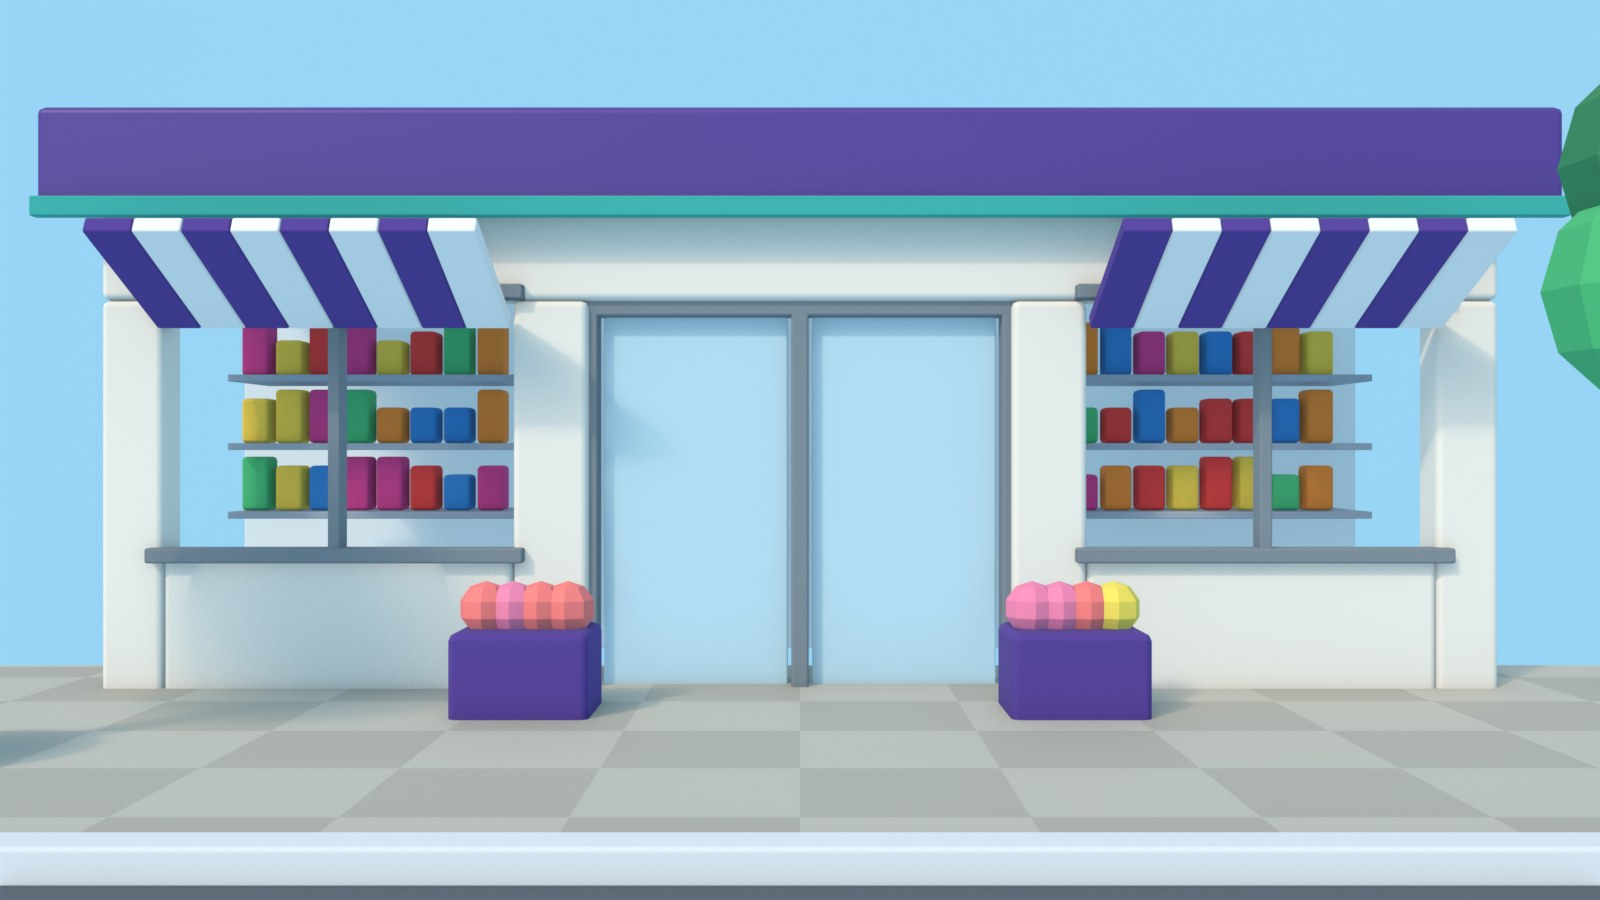
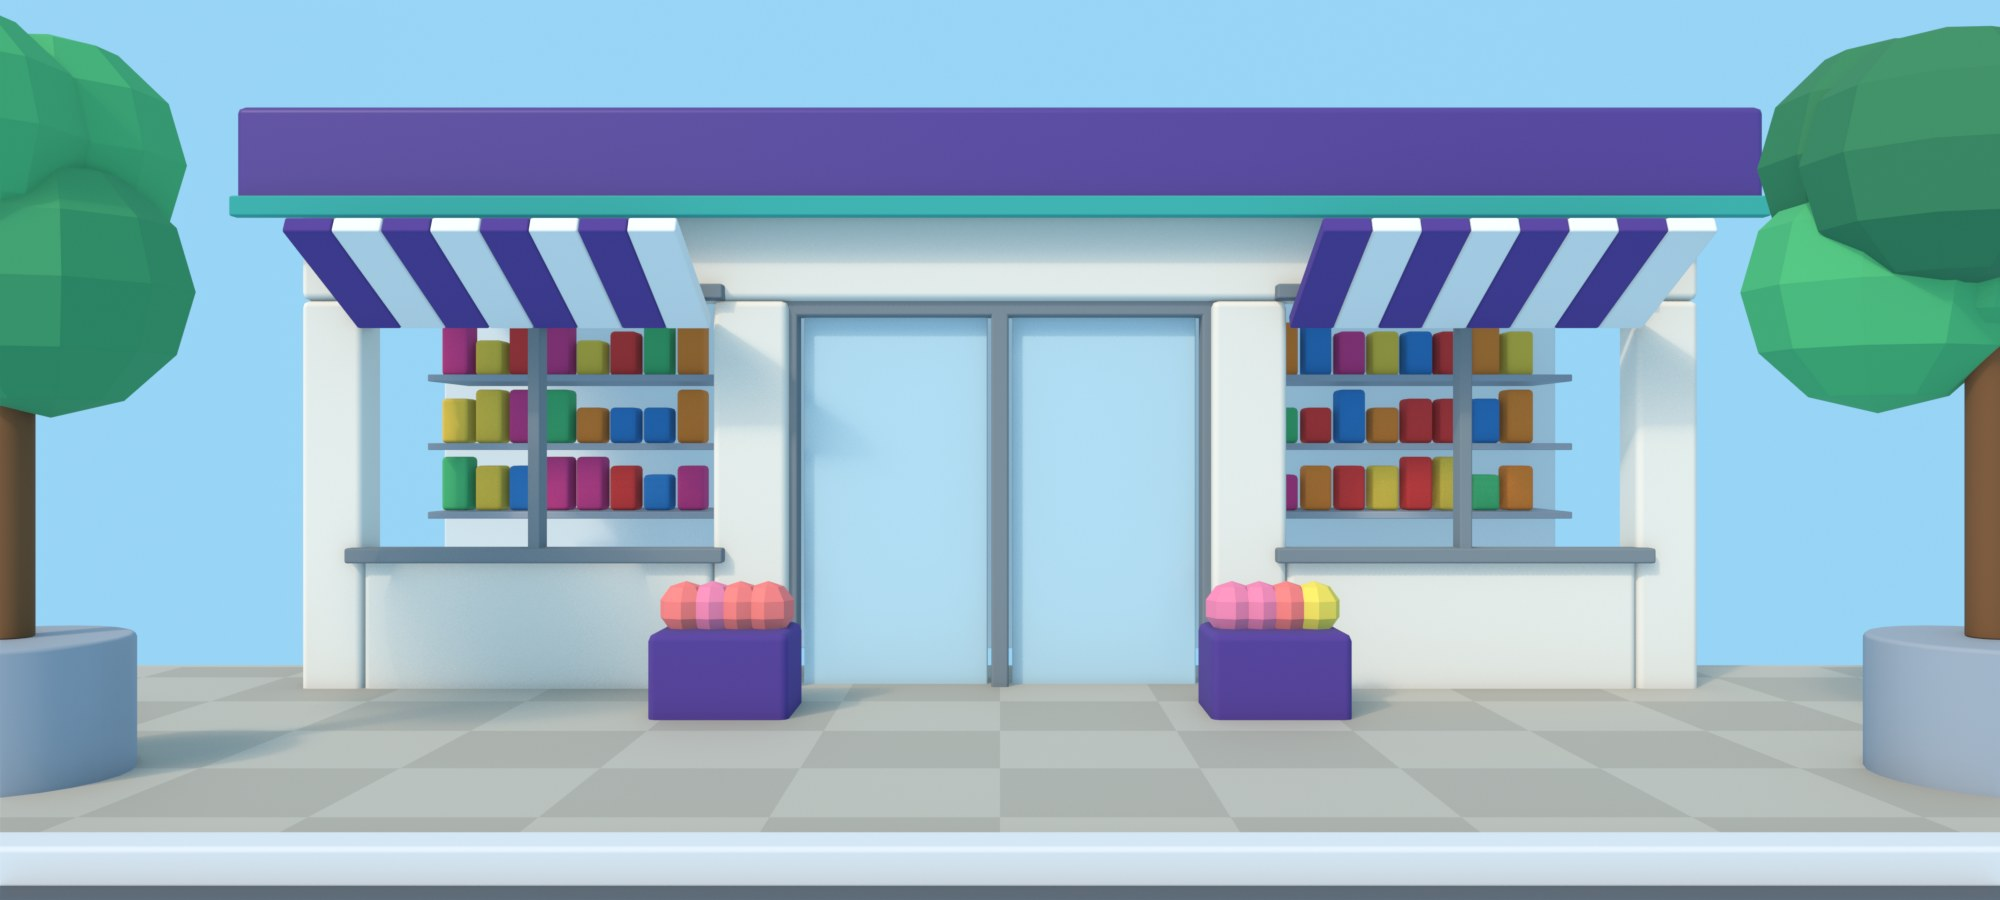
Pantallas alargadas: el juego se ensancha hasta 20:9 sin franjas
Nivel 2 del plan móvil. Escala EXPAND hasta 1600x720: el contenido sigue
en 1280x720 y el plugin Centrado centra la cámara de cada escena; marcador
y reloj van a los bordes reales; capas oscuras y barras cubren todo el
ancho. Fondos y mapa renderizados a 20:9 (2000x900) con la franja central
idéntica: escenarios.json y mapa.json no cambian. En 4:3 queda como antes.

diff --git a/src/lib/fondos.js b/src/lib/fondos.js
@@ -1,12 +1,12 @@
 import Phaser from 'phaser';
-import { ANCHO, ALTO, COLOR, estiloTexto } from './estilo.js';
+import { ANCHO, ALTO, ANCHO_MAX, COLOR, X_IZQ, estiloTexto } from './estilo.js';
 import { sombra } from './sombras.js';
 
 const PRODUCTOS_DECO = ['atun', 'leche', 'aceite', 'bebida', 'tomate', 'ketchup', 'miel', 'chocolate', 'jugo', 'mani', 'pan', 'queso'];
 
 function piso(g, y, colorA, colorB, tam = 80) {
   for (let fila = 0; y + fila * tam < ALTO; fila++) {
-    for (let col = 0; col * tam < ANCHO; col++) {
+    for (let col = Math.floor(X_IZQ / tam); col * tam < X_IZQ + ANCHO_MAX; col++) {
       g.fillStyle((fila + col) % 2 ? colorA : colorB, 1);
       g.fillRect(col * tam, y + fila * tam, tam, tam);
     }
@@ -16,34 +16,45 @@ function piso(g, y, colorA, colorB, tam = 80) {
 // Sala de ventas: pared clara, piso de baldosas, letrero del supermercado.
 export function fondoSala(scene, { pisoY = 560, letrero = true } = {}) {
   const g = scene.add.graphics();
-  g.fillStyle(0xeef3f6, 1).fillRect(0, 0, ANCHO, pisoY);
-  g.fillStyle(0xd8e2e8, 1).fillRect(0, pisoY - 14, ANCHO, 14);
+  g.fillStyle(0xeef3f6, 1).fillRect(X_IZQ, 0, ANCHO_MAX, pisoY);
+  g.fillStyle(0xd8e2e8, 1).fillRect(X_IZQ, pisoY - 14, ANCHO_MAX, 14);
   piso(g, pisoY, 0xe7e1d6, 0xf4efe6);
-  if (letrero) {
-    g.fillStyle(COLOR.marca, 1).fillRect(0, 0, ANCHO, 56);
-    g.fillStyle(COLOR.marcaAcento, 1).fillRect(0, 56, ANCHO, 6);
-    scene.add.text(ANCHO / 2, 28, 'SUPERMERCADO EL BARRIO', estiloTexto(28, '#ffffff')).setOrigin(0.5);
-  }
+  if (letrero) barraTitulo(scene, 'SUPERMERCADO EL BARRIO', COLOR.marca);
   return g;
 }
 
 // Bodega: muro gris, piso de cemento con línea de seguridad amarilla.
 export function fondoBodega(scene) {
   const g = scene.add.graphics();
-  g.fillStyle(0x8a96a3, 1).fillRect(0, 0, ANCHO, ALTO);
+  g.fillStyle(0x8a96a3, 1).fillRect(X_IZQ, 0, ANCHO_MAX, ALTO);
   for (let y = 0; y < 560; y += 40) {
-    g.lineStyle(2, 0x7a8693, 1).lineBetween(0, y, ANCHO, y);
+    g.lineStyle(2, 0x7a8693, 1).lineBetween(X_IZQ, y, X_IZQ + ANCHO_MAX, y);
   }
-  g.fillStyle(0x6b737c, 1).fillRect(0, 560, ANCHO, ALTO - 560);
-  g.fillStyle(COLOR.amarillo, 1).fillRect(0, 566, ANCHO, 8);
-  g.fillStyle(0x3d4852, 1).fillRect(0, 0, ANCHO, 56);
-  scene.add.text(ANCHO / 2, 28, 'BODEGA', estiloTexto(28, '#ffffff')).setOrigin(0.5);
+  g.fillStyle(0x6b737c, 1).fillRect(X_IZQ, 560, ANCHO_MAX, ALTO - 560);
+  g.fillStyle(COLOR.amarillo, 1).fillRect(X_IZQ, 566, ANCHO_MAX, 8);
+  barraTitulo(scene, 'BODEGA', 0x3d4852);
+  return g;
+}
+
+// Imagen de fondo de alto completo, centrada (los renders son más anchos que 16:9: lo que sobra se ve
+// en pantallas alargadas).
+export function fondoImagen(scene, clave) {
+  const img = scene.add.image(ANCHO / 2, 0, clave).setOrigin(0.5, 0);
+  return img.setScale(ALTO / img.height);
+}
+
+// Barra del título arriba, a todo el ancho.
+function barraTitulo(scene, titulo, color) {
+  const g = scene.add.graphics();
+  g.fillStyle(color, 1).fillRect(X_IZQ, 0, ANCHO_MAX, 56);
+  g.fillStyle(COLOR.marcaAcento, 1).fillRect(X_IZQ, 56, ANCHO_MAX, 6);
+  scene.add.text(ANCHO / 2, 28, titulo, estiloTexto(28, '#ffffff')).setOrigin(0.5);
   return g;
 }
 
 // Exterior / entrada del supermercado (render de Blender: tools/gen_escenarios.py) con el nombre en el letrero.
 export function fondoEntrada(scene) {
-  scene.add.image(0, 0, 'esc_fachada').setOrigin(0).setDisplaySize(ANCHO, ALTO);
+  fondoImagen(scene, 'esc_fachada');
   scene.add.text(ANCHO / 2, 130, 'SUPERMERCADO EL BARRIO', estiloTexto(48, '#ffffff', { stroke: '#2d2060', strokeThickness: 6 })).setOrigin(0.5);
 }
 
@@ -81,11 +92,7 @@ export function carro(scene, x, y, ancho = 300) {
 
 // Fondo renderizado en Blender (tools/gen_escenarios.py) con la barra superior del juego.
 export function fondoRender(scene, clave, titulo, colorBarra = COLOR.marca) {
-  scene.add.image(0, 0, clave).setOrigin(0).setDisplaySize(ANCHO, ALTO);
-  scene.add.image(0, 0, 'vineta').setOrigin(0).setDisplaySize(ANCHO, ALTO);
-  const g = scene.add.graphics();
-  g.fillStyle(colorBarra, 1).fillRect(0, 0, ANCHO, 56);
-  g.fillStyle(COLOR.marcaAcento, 1).fillRect(0, 56, ANCHO, 6);
-  scene.add.text(ANCHO / 2, 28, titulo, estiloTexto(28, '#ffffff')).setOrigin(0.5);
-  return g;
+  const fondo = fondoImagen(scene, clave);
+  scene.add.image(ANCHO / 2, 0, 'vineta').setOrigin(0.5, 0).setDisplaySize(fondo.displayWidth, ALTO);
+  return barraTitulo(scene, titulo, colorBarra);
 }

diff --git a/src/scenes/Mapa.js b/src/scenes/Mapa.js
@@ -1,5 +1,5 @@
 import Phaser from 'phaser';
-import { ALTO, ANCHO, COLOR, estiloTexto } from '../lib/estilo.js';
+import { ALTO, ANCHO, ANCHO_MAX, COLOR, X_IZQ, estiloTexto } from '../lib/estilo.js';
 import { Indicador, marca, panel, producto, sacudir } from '../lib/ui.js';
 import { caminar, crearPersonaje, enPiso, mirarHacia } from '../lib/personaje.js';
 import { estado, sumarError } from '../lib/estado.js';
@@ -44,11 +44,14 @@ export default class Mapa extends Phaser.Scene {
     this.cameras.main.fadeIn(300);
     this.listo = false;
     this.errores = 0;
-    this.add.image(0, 0, 'mapa').setOrigin(0).setDisplaySize(ANCHO, ALTO);
+    // Fondo y piezas a alto completo y centrados (el render es más ancho que 16:9).
+    const k = ALTO / this.textures.get('mapa').getSourceImage().height;
+    this.add.image(ANCHO / 2, 0, 'mapa').setOrigin(0.5, 0).setScale(k);
     // Muebles recortados del fondo (góndolas, cajas, muros...): van delante o detrás del personaje.
     this.piezas = Object.entries(MAPA.piezas).filter(([n]) => this.textures.get('mapa_piezas').has(n)).map(([n, planta]) => {
-      const img = this.add.image(0, 0, 'mapa_piezas', n).setOrigin(0);
-      return { img: img.setScale(ANCHO / img.frame.realWidth), planta };
+      const img = this.add.image(0, 0, 'mapa_piezas', n).setOrigin(0).setScale(k);
+      img.x = ANCHO / 2 - (img.frame.realWidth * k) / 2;
+      return { img, planta };
     });
     this.ind = new Indicador(this);
     this.zonas = {};
@@ -171,7 +174,7 @@ export default class Mapa extends Phaser.Scene {
   // La cámara se acerca y sigue al personaje mientras camina (la lista ya no hace falta).
   acercar() {
     const cam = this.cameras.main;
-    cam.setBounds(0, 0, ANCHO, ALTO);
+    cam.setBounds(X_IZQ, 0, ANCHO_MAX, ALTO);
     cam.startFollow(this.yo, false, 0.08, 0.08);
     cam.zoomTo(ZOOM, 900, 'Sine.easeInOut');
     this.tweens.add({ targets: this.lista, alpha: 0, duration: 300 });

diff --git a/src/scenes/Hud.js b/src/scenes/Hud.js
@@ -1,11 +1,12 @@
 import Phaser from 'phaser';
-import { ANCHO, ALTO, COLOR, estiloTexto } from '../lib/estilo.js';
+import { ANCHO, ALTO, COLOR, estiloTexto, ANCHO_MAX } from '../lib/estilo.js';
 import { voz } from '../lib/voz.js';
 import { sfx } from '../lib/sfx.js';
 import { estado, totales } from '../lib/estado.js';
 import { destello, dibujarReloj } from '../lib/ui.js';
 import { sombraCirculo } from '../lib/sombras.js';
 import { compacto } from '../lib/movil.js';
+import { margenLateral } from '../lib/pantalla.js';
 
 const COLOR_VOZ = { guia: COLOR.azul, jugador: COLOR.verde, jugadora: COLOR.verde, jugadore: COLOR.verde, jefe: 0x6b46c1, cliente: 0xb7791f };
 const VOZ_PREMIO = { 3: 'premio_3', 2: 'premio_2', 1: 'premio_1' };
@@ -48,6 +49,14 @@ export default class Hud extends Phaser.Scene {
     this.ondas = this.tweens.add({ targets: this.parlante, scale: this.parlante.scale * 1.1, duration: 300, yoyo: true, repeat: -1, paused: true });
     this.crearMarcador();
     this.crearReloj();
+    // En pantallas alargadas, marcador y reloj van pegados a los bordes reales.
+    const anclar = () => {
+      const m = margenLateral(this);
+      this.marcador.x = m;
+      this.reloj.x = -m;
+    };
+    anclar();
+    this.scale.on('resize', anclar);
   }
 
   // Arriba a la derecha: estrellas y puntos de la partida.
@@ -139,7 +148,7 @@ export default class Hud extends Phaser.Scene {
     this.marcador.setVisible(true);
 
     // Capa que bloquea los toques mientras dura el premio.
-    const capa = this.add.rectangle(cx, ALTO / 2, ANCHO, ALTO, 0x000000, 0.55).setInteractive().setAlpha(0);
+    const capa = this.add.rectangle(cx, ALTO / 2, ANCHO_MAX, ALTO, 0x000000, 0.55).setInteractive().setAlpha(0);
     const caja = this.add.graphics();
     caja.fillStyle(0xffffff, 1).fillRoundedRect(cx - 230, cy - 110, 460, 230, 28);
     caja.lineStyle(6, COLOR.amarillo, 1).strokeRoundedRect(cx - 230, cy - 110, 460, 230, 28);

diff --git a/src/scenes/Traslado.js b/src/scenes/Traslado.js
@@ -1,5 +1,5 @@
 import Phaser from 'phaser';
-import { ANCHO, COLOR, estiloTexto } from '../lib/estilo.js';
+import { ANCHO, COLOR, estiloTexto, ANCHO_MAX, X_IZQ } from '../lib/estilo.js';
 import { carro } from '../lib/fondos.js';
 import { caminar, crearPersonaje, enPiso, ESCALA } from '../lib/personaje.js';
 import { estado } from '../lib/estado.js';
@@ -22,10 +22,10 @@ export default class Traslado extends Phaser.Scene {
     this.cameras.main.fadeIn(300);
     const g = this.add.graphics();
     // mitad bodega, mitad sala
-    g.fillStyle(0x8a96a3, 1).fillRect(0, 0, ANCHO / 2, 560);
-    g.fillStyle(0xeef3f6, 1).fillRect(ANCHO / 2, 0, ANCHO / 2, 560);
-    g.fillStyle(0x6b737c, 1).fillRect(0, 560, ANCHO / 2, 160);
-    g.fillStyle(0xe7e1d6, 1).fillRect(ANCHO / 2, 560, ANCHO / 2, 160);
+    g.fillStyle(0x8a96a3, 1).fillRect(X_IZQ, 0, ANCHO / 2 - X_IZQ, 560);
+    g.fillStyle(0xeef3f6, 1).fillRect(ANCHO / 2, 0, ANCHO_MAX / 2, 560);
+    g.fillStyle(0x6b737c, 1).fillRect(X_IZQ, 560, ANCHO / 2 - X_IZQ, 160);
+    g.fillStyle(0xe7e1d6, 1).fillRect(ANCHO / 2, 560, ANCHO_MAX / 2, 160);
     g.fillStyle(0x5f6b78, 1).fillRect(ANCHO / 2 - 90, 180, 180, 380);
     g.fillStyle(0x9aa5b1, 1).fillRect(ANCHO / 2 - 80, 190, 160, 370);
     this.add.text(320, 110, 'BODEGA', estiloTexto(44, '#ffffff')).setOrigin(0.5);

diff --git a/src/main.js b/src/main.js
@@ -1,5 +1,6 @@
 import Phaser from 'phaser';
-import { ANCHO, ALTO } from './lib/estilo.js';
+import { ANCHO, ALTO, ANCHO_MAX } from './lib/estilo.js';
+import { Centrado } from './lib/pantalla.js';
 import Boot from './scenes/Boot.js';
 import Hud from './scenes/Hud.js';
 import Inicio from './scenes/Inicio.js';
@@ -31,7 +32,10 @@ function iniciar() {
     width: ANCHO,
     height: ALTO,
     backgroundColor: '#1f2d3a',
-    scale: { mode: Phaser.Scale.FIT, autoCenter: Phaser.Scale.CENTER_BOTH },
+    // EXPAND: en pantallas más anchas que 16:9 el juego se ensancha (hasta ANCHO_MAX) en vez de dejar
+    // franjas; en pantallas más altas (tablets 4:3) queda como antes, con franjas arriba y abajo.
+    scale: { mode: Phaser.Scale.EXPAND, autoCenter: Phaser.Scale.CENTER_BOTH, max: { width: ANCHO_MAX, height: ALTO } },
+    plugins: { scene: [{ key: 'Centrado', plugin: Centrado, mapping: 'centrado' }] },
     scene: [Boot, Inicio, Etapas, Avatar, Turnos, Contrato, Supervisor, Lista, Mapa, Bodega, Traslado, Sala,
       Ordenes, Derrame, Basura, Vencidos, Cliente, Precios, Faltantes, Fin, Hud],
   });

diff --git a/src/lib/pantalla.js b/src/lib/pantalla.js
@@ -1,0 +1,23 @@
+import Phaser from 'phaser';
+import { ALTO, ANCHO } from './estilo.js';
+
+// Pantallas más alargadas que 16:9 (nivel 2 de docs/plan-movil.md): con Scale.EXPAND el juego crece a
+// lo ancho (hasta ANCHO_MAX) y este plugin corre la cámara principal de cada escena para que el
+// contenido, dibujado en 0..ANCHO, quede al centro. También al girar o cambiar el tamaño de la ventana.
+export class Centrado extends Phaser.Plugins.ScenePlugin {
+  boot() {
+    this.systems.events.on('create', this.centrar, this);
+    this.game.scale.on('resize', this.centrar, this);
+    this.systems.events.once('destroy', () => this.game.scale.off('resize', this.centrar, this));
+  }
+
+  centrar() {
+    const cam = this.systems.cameras?.main;
+    if (!cam) return;
+    const { width, height } = this.game.scale.gameSize;
+    cam.setScroll(-(width - ANCHO) / 2, -(height - ALTO) / 2);
+  }
+}
+
+// Cuánto se ve a cada lado del contenido (0 en 16:9).
+export const margenLateral = (scene) => (scene.scale.gameSize.width - ANCHO) / 2;

diff --git a/src/scenes/Fin.js b/src/scenes/Fin.js
@@ -1,5 +1,5 @@
 import Phaser from 'phaser';
-import { ANCHO, COLOR, estiloTexto } from '../lib/estilo.js';
+import { ANCHO, COLOR, estiloTexto, ANCHO_MAX, ALTO } from '../lib/estilo.js';
 import { fondoEntrada } from '../lib/fondos.js';
 import { boton, dibujarReloj, panel } from '../lib/ui.js';
 import { crearPersonaje, SUPERVISOR, enPiso, ESCALA, imagenCapa } from '../lib/personaje.js';
@@ -101,7 +101,7 @@ export default class Fin extends Phaser.Scene {
     estado.estrellasInicio = ahora;
     if (!nuevos.chalecos.length && !nuevos.turno2) return;
 
-    const capa = this.add.rectangle(ANCHO / 2, 360, ANCHO, 720, 0x000000, 0.6).setInteractive().setDepth(200);
+    const capa = this.add.rectangle(ANCHO / 2, ALTO / 2, ANCHO_MAX, ALTO, 0x000000, 0.6).setInteractive().setDepth(200);
     const objs = [capa, panel(this, ANCHO / 2, 330, 620, 380, 0xffffff, 24).setDepth(201)];
     const add = (o) => objs.push(o.setDepth(202));
     add(this.add.text(ANCHO / 2, 175, '¡NUEVO!', estiloTexto(44, '#553c9a')).setOrigin(0.5));

diff --git a/src/scenes/Avatar.js b/src/scenes/Avatar.js
@@ -10,6 +10,7 @@ import { estrellasGuardadas } from '../lib/perfil.js';
 import { CHALECOS } from '../lib/premios.js';
 import { sombraPuntos } from '../lib/sombras.js';
 import { campoTexto, compacto } from '../lib/movil.js';
+import { fondoImagen } from '../lib/fondos.js';
 
 // Categorías del editor: voz, nombre, parte que se ve en la miniatura e ícono de la pestaña.
 // Ícono: capa del atlas del personaje y su color.
@@ -53,7 +54,7 @@ export default class Avatar extends Phaser.Scene {
 
   create() {
     this.cameras.main.fadeIn(300);
-    this.add.image(0, 0, 'esc_habitacion').setOrigin(0).setDisplaySize(ANCHO, ALTO);
+    fondoImagen(this, 'esc_habitacion');
     const trabajo = this.modo === 'trabajo';
     // Sin chaleco al empezar: en "trabajo" hay que ponérselo.
     this.cfg = estado.nombre ? { ...estado.avatar, chaleco: 'no' } : { ...estado.avatar, ...CALLE };

diff --git a/src/scenes/Derrame.js b/src/scenes/Derrame.js
@@ -1,5 +1,5 @@
 import Phaser from 'phaser';
-import { COLOR, estiloTexto } from '../lib/estilo.js';
+import { COLOR, estiloTexto, ANCHO_MAX, X_IZQ, ALTO } from '../lib/estilo.js';
 import { fondoRender } from '../lib/fondos.js';
 import { Indicador, marca, sacudir } from '../lib/ui.js';
 import { basurero, charco, herramienta, letreroPisoMojado, tarjeta } from '../lib/objetos.js';
@@ -77,7 +77,7 @@ export default class Derrame extends Phaser.Scene {
 
   elegirHerramienta() {
     const opciones = Phaser.Utils.Array.Shuffle(['trapero', 'escoba', 'plumero']);
-    const fondo = this.add.graphics().fillStyle(0x000000, 0.45).fillRect(0, 0, 1280, 720);
+    const fondo = this.add.graphics().fillStyle(0x000000, 0.45).fillRect(X_IZQ, 0, ANCHO_MAX, ALTO);
     const objs = [fondo];
     opciones.forEach((tipo, i) => {
       const x = 400 + i * 240;

diff --git a/src/scenes/Inicio.js b/src/scenes/Inicio.js
@@ -1,5 +1,5 @@
 import Phaser from 'phaser';
-import { ANCHO, ALTO, COLOR, estiloTexto } from '../lib/estilo.js';
+import { ANCHO, ALTO, COLOR, estiloTexto, ANCHO_MAX, X_IZQ } from '../lib/estilo.js';
 import { fondoEntrada } from '../lib/fondos.js';
 import { boton } from '../lib/ui.js';
 import { voz } from '../lib/voz.js';
@@ -21,7 +21,7 @@ export default class Inicio extends Phaser.Scene {
     hud.mostrarMarcador(false);
     nuevaPartida();
     fondoEntrada(this);
-    this.add.graphics().fillStyle(0x000000, 0.35).fillRect(0, 0, ANCHO, ALTO);
+    this.add.graphics().fillStyle(0x000000, 0.35).fillRect(X_IZQ, 0, ANCHO_MAX, ALTO);
     crearPersonaje(this, 230, enPiso(640), AVATAR_INICIAL, ESCALA);
 
     const titulo = this.add.text(ANCHO / 2 + 80, 290, 'MISIÓN\nREPONEDOR', estiloTexto(92, '#ffffff', {

diff --git a/src/scenes/Turnos.js b/src/scenes/Turnos.js
@@ -1,5 +1,5 @@
 import Phaser from 'phaser';
-import { ANCHO, COLOR, estiloTexto } from '../lib/estilo.js';
+import { ANCHO, COLOR, estiloTexto, ANCHO_MAX, X_IZQ } from '../lib/estilo.js';
 import { fondoEntrada } from '../lib/fondos.js';
 import { dibujarReloj, flechaSiguiente, letreroPasillo } from '../lib/ui.js';
 import { tarjeta } from '../lib/objetos.js';
@@ -19,7 +19,7 @@ export default class Turnos extends Phaser.Scene {
   create() {
     this.cameras.main.fadeIn(300);
     fondoEntrada(this);
-    this.add.graphics().fillStyle(0x000000, 0.35).fillRect(0, 0, ANCHO, 720);
+    this.add.graphics().fillStyle(0x000000, 0.35).fillRect(X_IZQ, 0, ANCHO_MAX, ALTO);
     crearPersonaje(this, 150, enPiso(640), SUPERVISOR, ESCALA);
     this.elegido = null;
 

diff --git a/src/scenes/Contrato.js b/src/scenes/Contrato.js
@@ -7,6 +7,7 @@ import { voz } from '../lib/voz.js';
 import { sfx } from '../lib/sfx.js';
 import { siguiente } from '../lib/flujo.js';
 import { sombraRect } from '../lib/sombras.js';
+import { fondoImagen } from '../lib/fondos.js';
 
 const CEL = { x: 860, y: 330, ancho: 330, alto: 560 };
 const AZUL = 0x2b6cb0;
@@ -19,7 +20,7 @@ export default class Contrato extends Phaser.Scene {
 
   create() {
     this.cameras.main.fadeIn(300);
-    this.add.image(0, 0, 'esc_habitacion').setOrigin(0).setDisplaySize(ANCHO, ALTO);
+    fondoImagen(this, 'esc_habitacion');
     this.yo = crearPersonaje(this, 330, enPiso(), estado.avatar, ESCALA);
     this.crearCelular();
     this.time.delayedCall(800, () => this.llegaMensaje());
